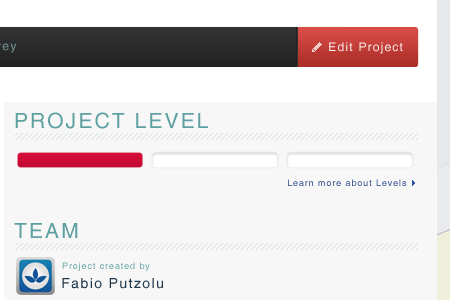
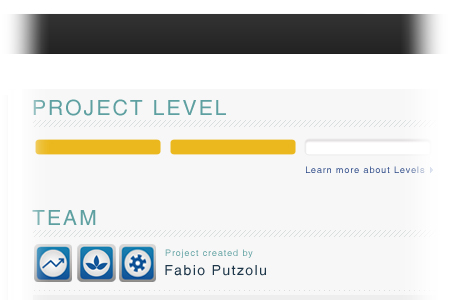
text, donate button, php warning message

diff --git a/public/media/slepice-launch/1.0.0/css/launchpage_css.css b/public/media/slepice-launch/1.0.0/css/launchpage_css.css
@@ -1,13 +1,15 @@
 /* FLOW LAUNCHPAGE CSS Document */
+@font-face{
+  font-family: Futura;
+  src: url('../other/ftrabk.ttf');
+}
+
 body{
   /*background: #e7e8ea;*/
   background: #e7e8ea url('../img/bcg.jpg') 25% 35% no-repeat;
   width: 100%;
-}
-
-@font-face{
-  font-family: Futura;
-  src: url('../other/ftrabk.ttf');
+  font-family: Futura, Helvetica, "Trebuchet MS";
+  font-size: 13px;
 }
 
 p{
@@ -81,6 +83,13 @@ p.lp-donate{
   float: right;
 }
 
+.lp-thin-divider{
+  width: 100%;
+  height: 1px;
+  margin: 10px 0 20px 0;
+  background: url('../img/thin_divider.png') top left repeat-x;
+}
+
 h1{
   position: relative;
   overflow: hidden;
@@ -117,8 +126,8 @@ h1 span#lp-logo-platform, h1 span#lp-logo-slogan{
 
 h1 span#lp-logo-slogan{
 	height: 24px;
-	font-size: 17px;
-    line-height:14px;
+	font-size: 15.1px;
+  line-height:14px;
 }
 
 h1 a{
@@ -147,7 +156,7 @@ h3.lp-faq-question{
 
 h3.lp-desc-title{
   font-weight: normal;
-  margin: 15px 0 10px 0;
+  margin: 0 0 10px 0;
   border-top: 1px solid #e5e5e5;
   padding: 5px 0 0 0;
 }
@@ -211,7 +220,7 @@ h4{
 
 .lp-btn-survey{
   position: absolute;
-  top: 50%;
+  top: 40%;
   left: 0px;
   -webkit-border-radius: 0 4px 4px 0;
   -moz-border-radius: 0 4px 4px 0;
@@ -220,3 +229,36 @@ h4{
   padding: 15px;
 }
 
+
+/*bootstrap overwrite */
+
+.thumbnail {
+  display: block;
+  padding: 0px;
+  line-height: 1;
+  border: 2px solid #bbcfd9;
+  -webkit-border-radius: 0px;
+  -moz-border-radius: 0px;
+  border-radius: 0px;
+  -webkit-box-shadow: 0 1px 1px rgba(0, 0, 0, 0.075);
+  -moz-box-shadow: 0 1px 1px rgba(0, 0, 0, 0.075);
+  box-shadow: 0 1px 1px rgba(0, 0, 0, 0.075);
+}
+
+.thumbnails {
+  margin-left: -20px;
+  margin-bottom: 0px;
+  margin-top: 0px;
+  list-style: none;
+  *zoom: 1;
+}
+
+.thumbnails > li {
+  float: left;
+  margin-bottom: 5px;
+  margin-left: 20px;
+}
+
+.modal-body{
+  text-align: center;
+}

diff --git a/library/App/Form/Launch/SignupForm.php b/library/App/Form/Launch/SignupForm.php
@@ -19,7 +19,7 @@ class SignupForm extends \Twitter_Bootstrap_Form_Horizontal
 		$this->addElement('text', 'email', array(
 				'label' => 'Email',
 				'required' => true,
-				'errorMessages' => array("You should have emailll which will simply describe your goal."),
+				'errorMessages' => array("You should have email which will simply describe your goal."),
 				//'description' => "description",
 				'validators' => array("emailAddress"),
 		));
@@ -27,7 +27,7 @@ class SignupForm extends \Twitter_Bootstrap_Form_Horizontal
 		$this->addElement('text', 'email_verification', array(
 				'label' => 'Email verification',
 				'required' => true,
-				'errorMessage' => "Email is not the same as previous one.",
+				'errorMessage' => "Hmm, this doesn't seem to match the previous field. Try again.",
 				//'description' => "description",
 				'validators' => array(array("emailAddress"),
 									  array('Identical', true, array('token' => 'email') )
@@ -44,7 +44,7 @@ class SignupForm extends \Twitter_Bootstrap_Form_Horizontal
 		$this->addElement('password', 'password_verification', array(
 				'label' => 'Password verification',
 				'required' => true,
-				'errorMessages' => array("Password is not the same as previous one."),
+				'errorMessages' => array("Hmm, this doesn't seem to match the previous field. Try again."),
 				//'description' => "description",
 				'validators' => array(
 						array('Identical', true, array('token' => 'password') ),
@@ -56,19 +56,19 @@ class SignupForm extends \Twitter_Bootstrap_Form_Horizontal
 		
 		// Passion Bar
 		$this->addElement('select','location', array(
-				'label' => 'Do you reside in Prague?',
+				'label' => 'Do you live in Prague?',
 				//'description' => "description",
 				'multiOptions' => array("no",'yes')
 		));
 			
 		$this->addElement('checkbox', 'accept', array(
-				'label'=>'Do you agree with <a href="/index/privacy">rules</a>?',
+				'label'=>'Do you agree with <a href="/index/privacy">Terms & Conditions</a>?',
 				'uncheckedValue'=> '',
 				'checkedValue' => 'I Agree',
 				'validators' => array(
 						array('notEmpty', true, array(
 								'messages' => array(
-										'isEmpty'=>'You must agree to the terms.'
+										'isEmpty'=>'You must agree with Terms & Conditions.'
 								)
 						))
 				),
@@ -94,7 +94,7 @@ class SignupForm extends \Twitter_Bootstrap_Form_Horizontal
 		// submit button
 		$this->addElement('submit','submit',array(
 				'buttonType' => \Twitter_Bootstrap_Form_Element_Submit::BUTTON_PRIMARY,
-				'label' => "Sign up",
+				'label' => "Sign Up",
 				'escape' => false,
 		));
 		 
